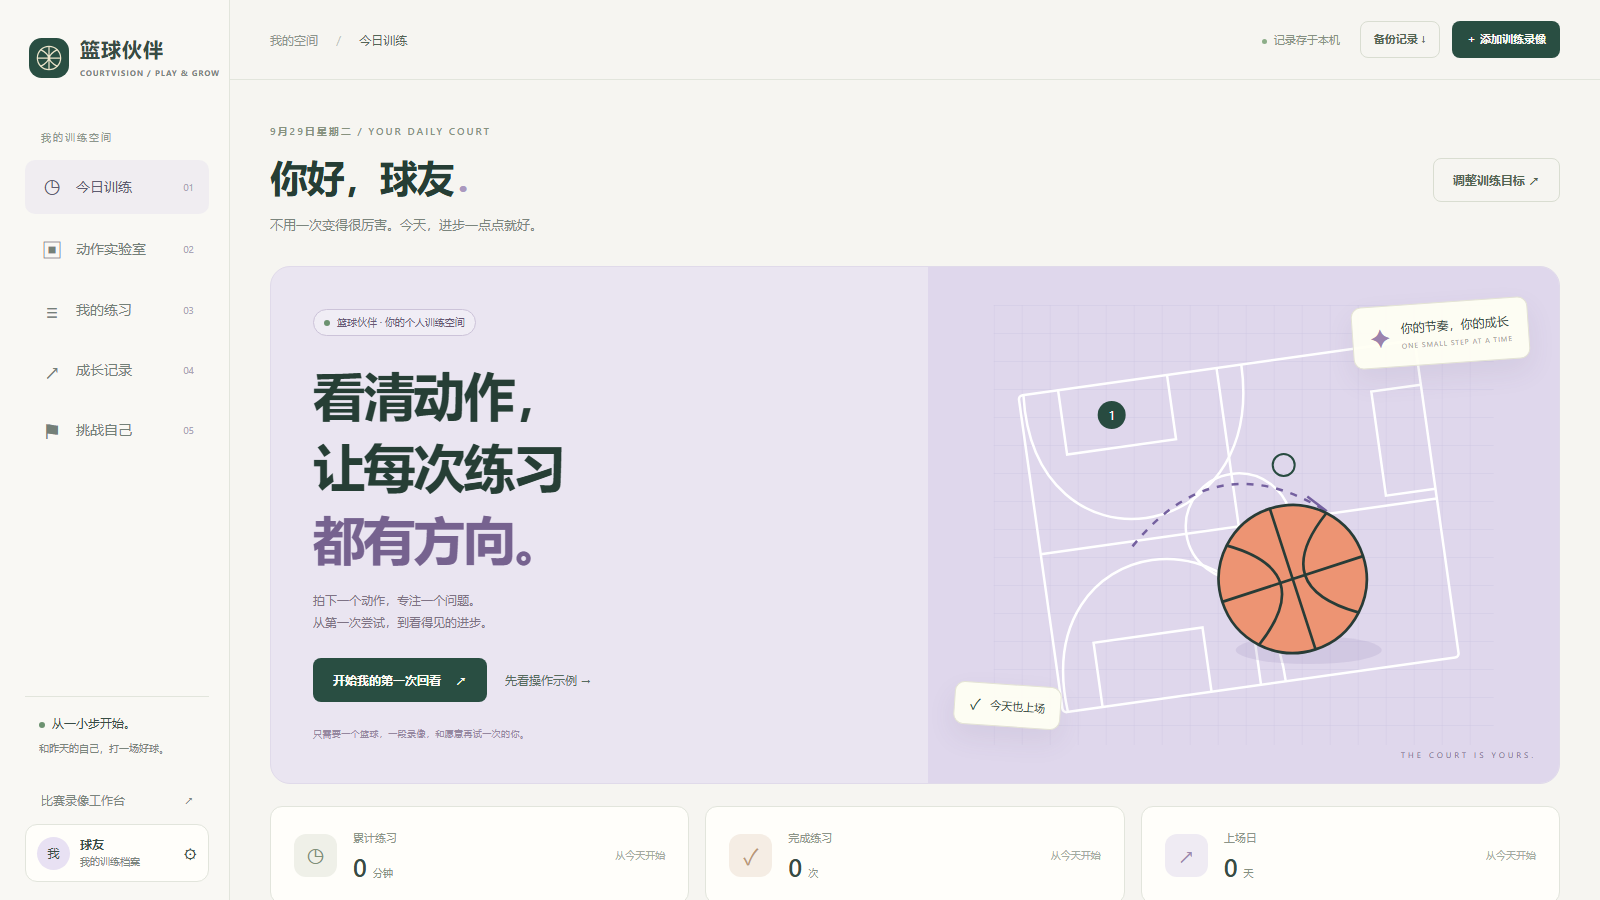
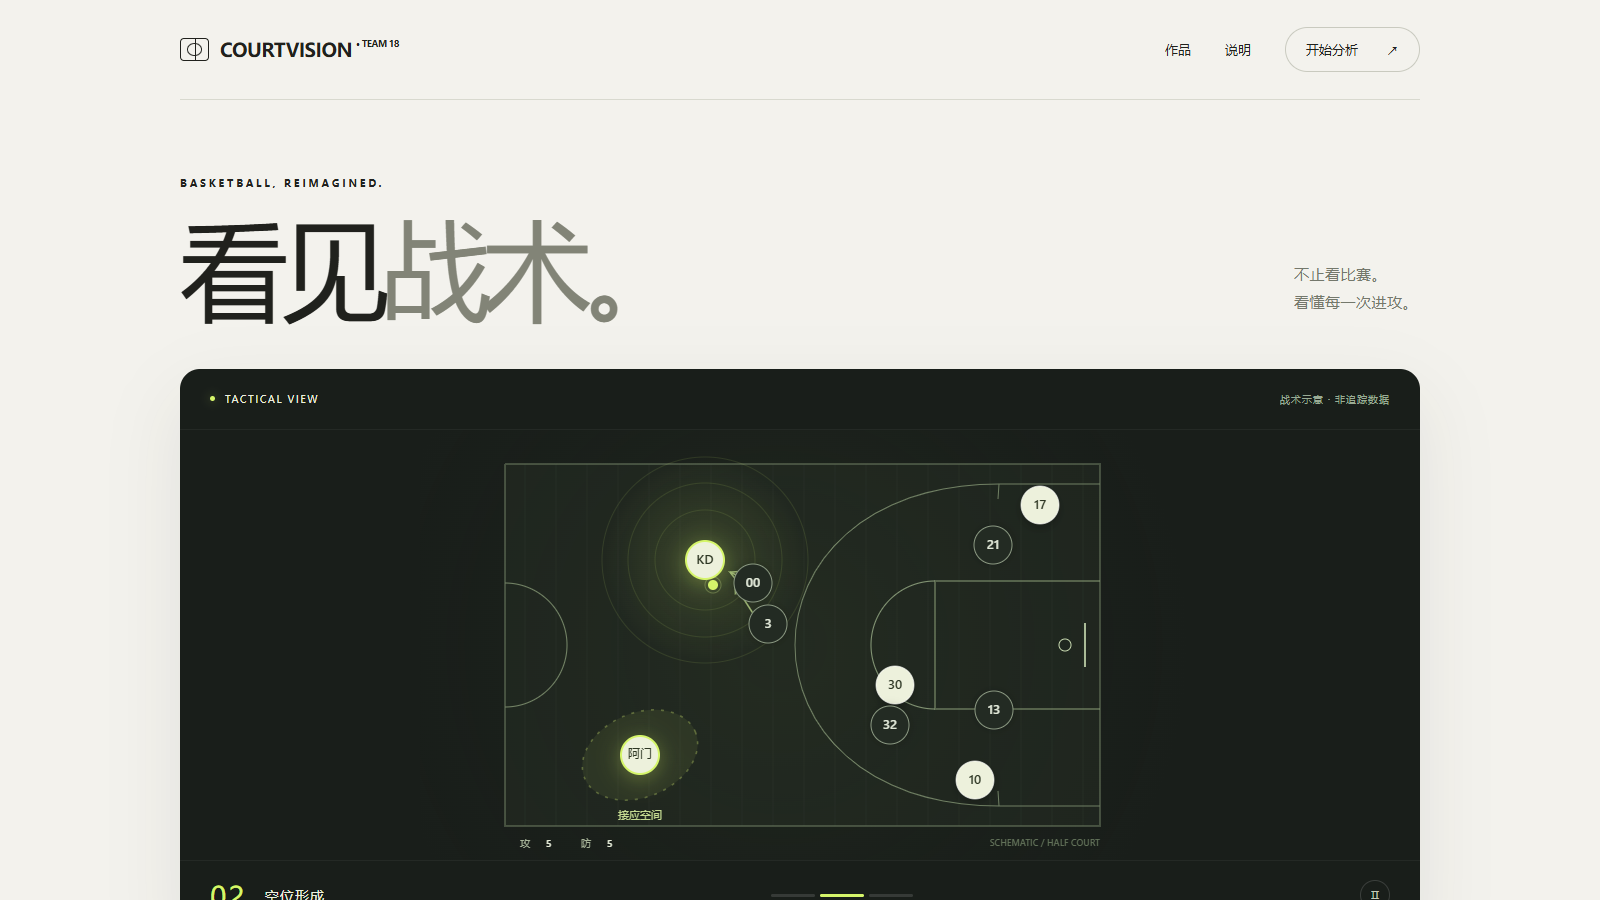
Update CourtVision hackathon project

diff --git a/script.js b/script.js
@@ -25,6 +25,7 @@
       heroDirectionOne: 'Machine Learning', heroDirectionTwo: 'Algorithms', heroDirectionThree: 'Artificial Intelligence & AI Agents', heroDirectionFour: 'Mathematical Modeling',
       localTime: 'Beijing time', lastUpdated: 'Updated', pageViews: 'Views', visitorIp: 'IP', locationHongKong: 'Hong Kong, China',
       newsLabel: 'News', newsIntro: 'Recent updates',
+      newsHackathon: 'Built <a class="mentor-link" href="https://dy6b45yqq73uj.cloudfront.net/" target="_blank" rel="noopener">CourtVision</a> for the <a class="mentor-link" href="https://du5imhgxabl0d.cloudfront.net/portal" target="_blank" rel="noopener">NBA × AWS Broadcast Code 12 Hackathon</a>.',
       newsOne: 'Personal homepage launched.',
       newsTwo: 'Summer research collaboration at HKUST with <a class="mentor-link" href="https://sites.google.com/site/eeyangc/" target="_blank" rel="noopener" aria-label="Prof. Can Yang\'s homepage">Prof. Can Yang</a>.',
       newsThree: 'Completed the NeurIPS 2026 rebuttal; post-rebuttal reviews: 5 4 4.',
@@ -68,7 +69,7 @@
       rcdaNote: 'Architectural conclusions are conditioned on decoder, depth, data, and recipe.',
       rcdaDesc: 'Shows how decoder choice and training recipe can confound structural KGC comparisons, motivating controlled reporting across architectures and datasets.',
       selectedProjects: 'Featured project',
-      courtVisionType: '01 / Basketball training', courtVisionDesc: 'A local-first basketball training companion for reviewing and comparing motion videos, planning practice, and tracking progress.', openCourtVision: 'Open CourtVision ↗',
+      courtVisionType: '01 / NBA × AWS Hackathon · Team 18', courtVisionDesc: 'An AI agent that turns basketball video and court data into visual tactical breakdowns, key-possession analysis, and synchronized commentary.', openCourtVision: 'Open CourtVision ↗',
       educationRecognition: 'Education & honors', educationLabel: 'Education', recognitionLabel: 'Honors', educationHeading: 'Education', honorsHeading: 'Honors', educationYears: '2023—2027 (Expected)',
       xmu: 'Xiamen University', educationDegree: 'B.S. in Mathematics and Applied Mathematics<br>School of Mathematical Sciences',
       honorOne: '<b>Fujian First Prize</b><br>National Undergraduate Mathematical Modeling Contest · Team Leader',
@@ -90,6 +91,7 @@
       heroDirectionOne: '机器学习', heroDirectionTwo: '算法', heroDirectionThree: '人工智能与 AI 智能体', heroDirectionFour: '数学建模',
       localTime: '北京时间', lastUpdated: '最后更新', pageViews: '浏览量', visitorIp: 'IP', locationHongKong: '中国香港',
       newsLabel: '最新动态', newsIntro: '近期更新',
+      newsHackathon: '参加 <a class="mentor-link" href="https://du5imhgxabl0d.cloudfront.net/portal" target="_blank" rel="noopener">NBA × AWS Broadcast Code 12 黑客松</a>，完成 <a class="mentor-link" href="https://dy6b45yqq73uj.cloudfront.net/" target="_blank" rel="noopener">CourtVision</a>。',
       newsOne: '个人主页上线。',
       newsTwo: '在香港科技大学与<a class="mentor-link" href="https://sites.google.com/site/eeyangc/" target="_blank" rel="noopener" aria-label="杨灿教授主页">杨灿教授</a>开展暑期研究合作。',
       newsThree: '完成 NeurIPS 2026 rebuttal；rebuttal 后评分为 5 4 4。',
@@ -133,7 +135,7 @@
       rcdaNote: '架构结论取决于解码器、深度、数据集与训练配方。',
       rcdaDesc: '揭示解码器选择与训练配方如何混淆结构化知识图谱补全比较，并推动跨架构、跨数据集的受控报告。',
       selectedProjects: '重点项目',
-      courtVisionType: '01 / 篮球训练', courtVisionDesc: '一款本地优先的篮球训练助手，用于回看与对比动作录像、制定练习计划并记录训练进步。', openCourtVision: '打开 CourtVision ↗',
+      courtVisionType: '01 / NBA × AWS 黑客松 · 第十八组', courtVisionDesc: '一款将篮球视频与赛场数据转化为战术可视化、关键回合分析和同步解说的 AI Agent。', openCourtVision: '打开 CourtVision ↗',
       educationRecognition: '教育经历与荣誉', educationLabel: '教育经历', recognitionLabel: '荣誉', educationHeading: '教育经历', honorsHeading: '荣誉', educationYears: '2023—2027（预计）',
       xmu: '厦门大学', educationDegree: '数学与应用数学 理学学士<br>数学科学学院',
       honorOne: '<b>福建省一等奖</b><br>全国大学生数学建模竞赛 · 队长',

diff --git a/index.html b/index.html
@@ -158,6 +158,7 @@
           <p data-i18n="newsIntro">Recent updates</p>
         </div>
         <div class="news-list" id="news-list">
+          <article class="news-row reveal"><time datetime="2026-10">Oct. 2026</time><p data-i18n-html="newsHackathon">Built <a class="mentor-link" href="https://dy6b45yqq73uj.cloudfront.net/" target="_blank" rel="noopener">CourtVision</a> for the <a class="mentor-link" href="https://du5imhgxabl0d.cloudfront.net/portal" target="_blank" rel="noopener">NBA × AWS Broadcast Code 12 Hackathon</a>.</p></article>
           <article class="news-row reveal"><time datetime="2026-08">Aug. 2026</time><p data-i18n="newsOne">Personal homepage launched.</p></article>
           <article class="news-row reveal"><time datetime="2026-07">Jul. 2026</time><p data-i18n-html="newsTwo">Summer research collaboration at HKUST with <a class="mentor-link" href="https://sites.google.com/site/eeyangc/" target="_blank" rel="noopener" aria-label="Prof. Can Yang's homepage">Prof. Can Yang</a>.</p></article>
           <article class="news-row reveal"><time datetime="2026-07">Jul. 2026</time><p data-i18n="newsThree">Completed the NeurIPS 2026 rebuttal; post-rebuttal reviews: 5 4 4.</p></article>
@@ -232,12 +233,12 @@
         </div>
 
         <div class="project-grid">
-          <a class="project-card project-courtvision reveal" href="https://andyshan11.github.io/courtvision/" target="_blank" rel="noopener">
-            <div class="project-art project-art-courtvision" role="img" aria-label="CourtVision basketball training companion interface"></div>
-            <div class="project-number" data-i18n="courtVisionType">01 / Basketball training</div>
+          <a class="project-card project-courtvision reveal" href="https://dy6b45yqq73uj.cloudfront.net/" target="_blank" rel="noopener">
+            <div class="project-art project-art-courtvision" role="img" aria-label="CourtVision AI basketball tactical analysis interface"></div>
+            <div class="project-number" data-i18n="courtVisionType">01 / NBA × AWS Hackathon · Team 18</div>
             <div class="project-body">
               <h3>CourtVision</h3>
-              <p data-i18n="courtVisionDesc">A local-first basketball training companion for reviewing and comparing motion videos, planning practice, and tracking progress.</p>
+              <p data-i18n="courtVisionDesc">An AI agent that turns basketball video and court data into visual tactical breakdowns, key-possession analysis, and synchronized commentary.</p>
               <span data-i18n="openCourtVision">Open CourtVision ↗</span>
             </div>
           </a>
